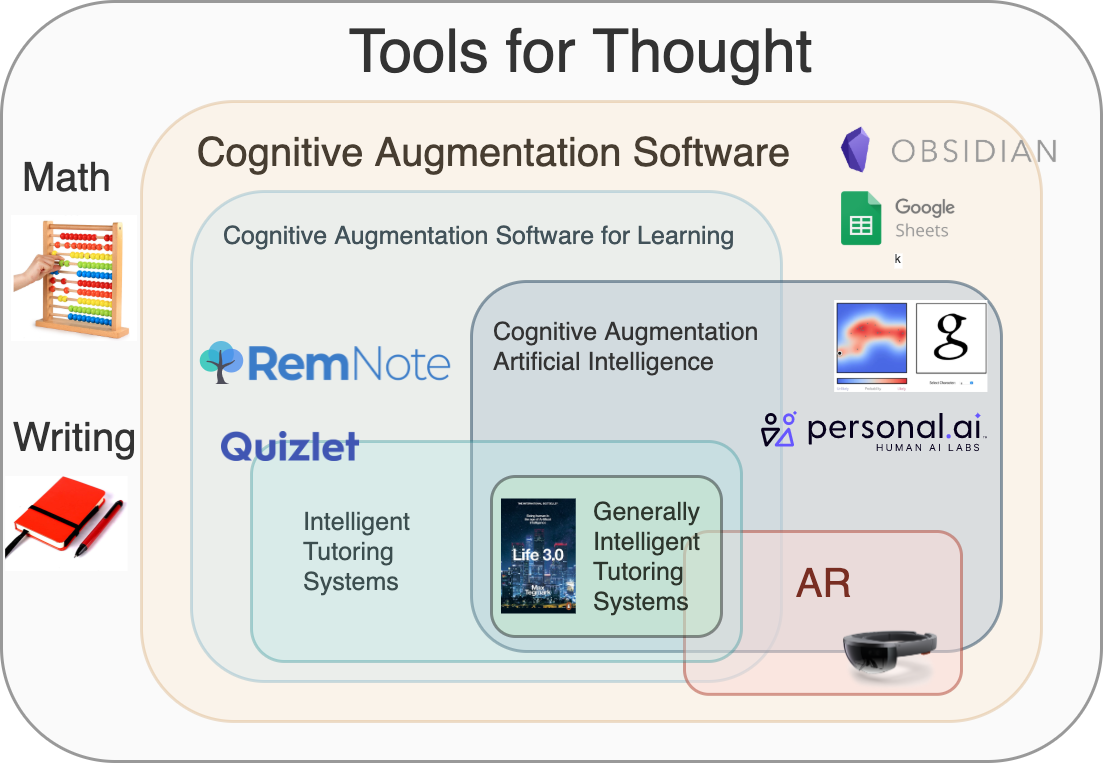
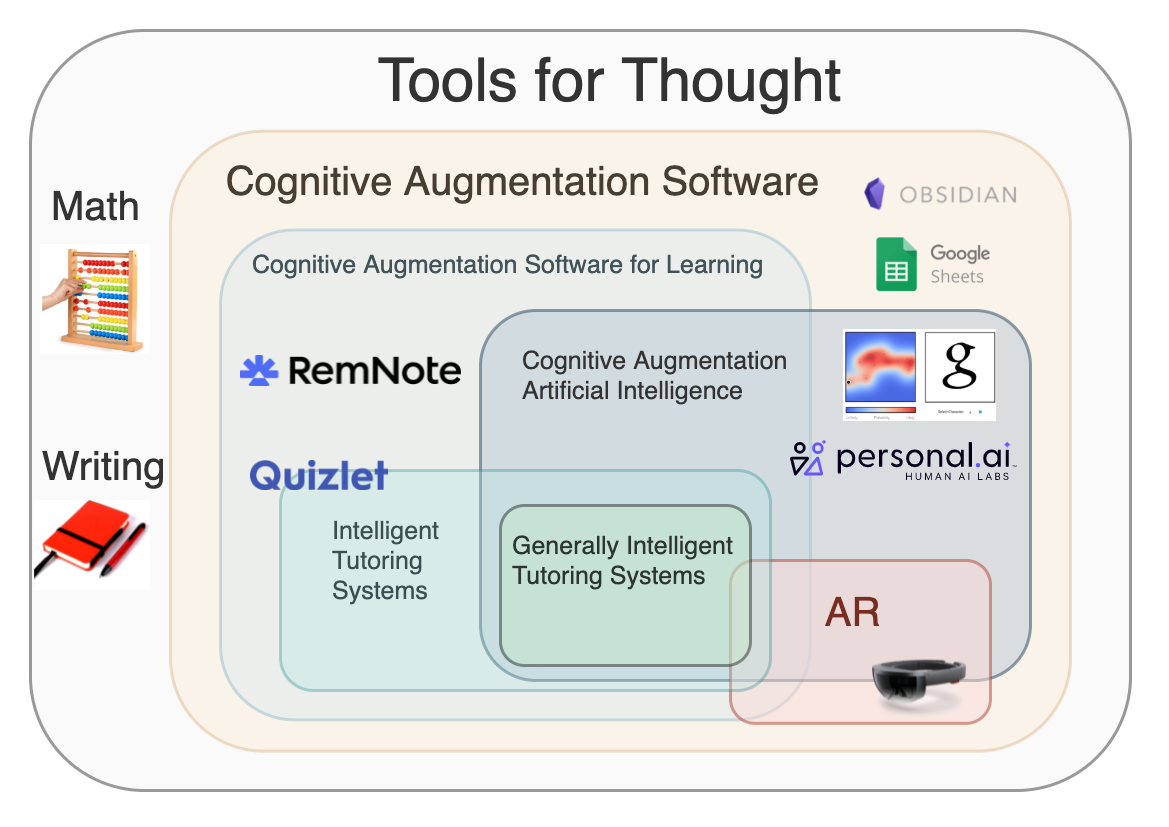
add GTP3 section and update cas map

diff --git a/src/content/cas.md b/src/content/cas.md
@@ -22,7 +22,7 @@ Tools that augment our cognitive abilities with the help of computers are still 
   - [Distributed Cognition and Social Computing](#distributed-cognition-and-social-computing)
   - [Personal Knowledge Management](#personal-knowledge-management)
 - [New types of augmenting devices and interfaces](#new-types-of-augmenting-devices-and-interfaces)
-  - [Cognitive Technology](#cognitive-technology)
+  - [Cognitive Technology, GANs and GTP-3](#cognitive-technology-gans-and-gtp-3)
   - [Memory and Knowledge Augmentation](#memory-and-knowledge-augmentation)
   - [Augmented Reality](#augmented-reality)
 - [Cognition Augmentation Software for Learning](#cognition-augmentation-software-for-learning)
@@ -85,7 +85,7 @@ We will look at cloud architectures that describe the combination of cognitive m
 
 # New types of augmenting devices and interfaces
 
-## Cognitive Technology
+## Cognitive Technology, GANs and GTP-3
 
 In 2016, Michael Nielsen, in his essay [Thought as a Technology](http://cognitivemedium.com/tat/), described the term cognitive technology as an external artifact designed by humans, which can be internalized and used as a substrate for cognition. These are representations invented by other people, such as words, graphs, maps, algebra, mathematical diagrams, etc. He further differentiated between Models of Augmentation as Cognitive Transformation (e.g., a spreadsheet) or Cognitive Outsourcing (e.g., a calculator).
 
@@ -96,6 +96,10 @@ Cognitive technology using Artificial Intelligence discovers and reveals deep pr
 How this process can look like is demonstrated in a [YouTube videos by the AI researcher Károly Zsolnai-Fehér](https://www.youtube.com/watch?v=B8RMUSmIGCI&t=2s), in which he also describes it as the _artistic control over images_.
 
 ![iGAN demontsration](https://s4.gifyu.com/images/gan.gif)
+
+Another fascinating technology in this category is GTP-3, _an autoregressive language model that uses deep learning to produce human-like text_. We saw commercially successful use of this model in copywriting (ex. copysmith.ai) and code completion (ex. [GitHub Copilot](https://copilot.github.com/)). But besides software code, there has been little commercialization of text completion. Thus, I hope somebody builts a ubiquitous text completions browser extension (pls. lmk if you do). 
+
+GTP-3 can not only be used to outsource cognitive tasks, but it can generate entirely new ideas. David Dohan, Research Engineer at Google Brain, demonstrates the power of using this model for idea generation in a [recent Athens community talk](https://youtu.be/Oxbv9EnhSuk?t=534). 
 
 Although the descriptions of the two terms, provided by Nielsen and Carter, still comes with less clearly defined terms of "deep principles," "in a meaningful way," and "human thought," they help us draw a further categorization. For our purpose here and using our terminology, I'll summarize them as the distinction between CAS and CAAI, Cognitive Augmentation AI.
 
@@ -193,4 +197,4 @@ Future features like the "Connection-recommendation" would be a Cognitive techno
 
 If you are building or researching Cognition Augmentation Software (CAS), I would be happy to have a chat!
 
-Lastly, if you are a talented engineer, designer, or operator interested in working on cutting-edge productivity and learning software; [We are hiring at RemNote](https://www.remnote.io/careers) and would love to hear from you!
+Lastly, if you are a talented engineer, designer, or operator interested in working on cutting-edge productivity and learning software; [We are hiring at RemNote](https://www.remnote.com/careers) and would love to hear from you!
